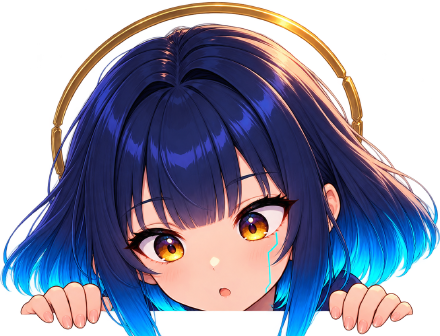
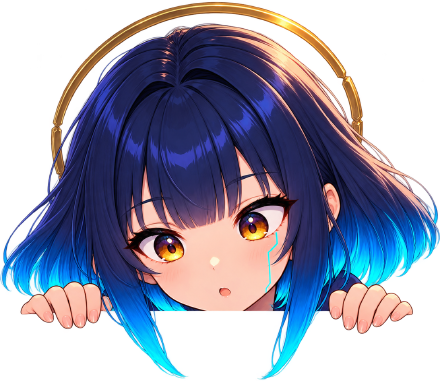
Les mèches ne sont plus coupées — il n'y avait pas de rebord à retirer
Signalé : « tu as coupé ses mèches, ça rend vraiment pas bien ». Vrai,
et l'erreur est plus bête que ça : je les ai jetées avec quelque chose
qui n'existait pas.

CE QUE JE CROYAIS VOIR. Sous la ligne des doigts, un bandeau sombre
que j'ai pris pour le rebord dessiné, à remplacer par la carte. J'ai
donc coupé à y = 922, juste sous les doigts.

CE QU'IL Y AVAIT VRAIMENT. Sondage des couleurs par plages de 120 px,
de y = 880 à 1035 : les colonnes du milieu (x 600-720) sont VIDES à
toutes les lignes. Il n'y a pas de rebord. Ce que je prenais pour un
bandeau était de la transparence affichée sur fond noir par la
visionneuse — j'ai lu une image au lieu de lire des pixels.

Ce qui reste sous les doigts, à x 360-500 et x 700-860, est du cyan
saturé : R ≈ 1, G ≈ 210, B ≈ 245. Ce sont ses deux mèches, et elles
descendent jusqu'à y = 1032. Je les avais tranchées en deux.

LA COUPE VA MAINTENANT JUSQU'À 1036, et les mèches retombent DEVANT
la carte — c'est précisément le geste du dessin. Nouvelle géométrie :
chevauchement (1036 − 860) / 959 = 18,35 % de la hauteur, contre 7,3
avant. Le débord AU-DESSUS ne bouge pas (0,707 × la largeur) : tout le
supplément tombe sous la ligne, donc la marge de centrage est
inchangée.

UNE MARGE QUI SE CALCULE AU LIEU D'ÊTRE CHOISIE. Les mèches
descendent maintenant assez bas pour venir mordre sur l'étiquette
« VÉRIFICATION REQUISE ». Avec le `clamp` fixe d'origine, le
dégagement variait avec la taille : mesuré, 12 px en 1280 et 4 px en
[…]

diff --git a/src/styles/deuxieme-facteur.css b/src/styles/deuxieme-facteur.css
@@ -79,25 +79,34 @@
    Le dessin la montre penchée par-dessus un rebord, les deux mains
    posées dessus. Le rebord, c'est la bordure haute de cette carte.
 
-   TROIS NOMBRES, RELEVÉS SUR L'IMAGE SOURCE (1254 × 1254) :
-     — la zone opaque va de y = 78 à y = 1032 ;
+   DEUX NOMBRES, RELEVÉS SUR L'IMAGE SOURCE (1254 × 1254) :
      — la ligne qu'elle agrippe est à y = 860 : c'est là que le
-       nombre de pixels opaques chute de 988 à 634 sur quatre lignes ;
-     — les doigts finissent à y = 918, mesuré par bandes (main
-       gauche x 150-360, main droite x 940-1160).
+       nombre de pixels opaques chute de 988 à 634 sur quatre lignes.
+       La chute EST le rebord ;
+     — la zone opaque finit à y = 1032.
 
-   On coupe donc à 922 — sous les doigts, au-dessus du rebord dessiné
-   que la carte remplace. Le chevauchement vaut (922 − 860) / (922 −
-   78) = 7,3 % de la hauteur : c'est exactement de combien elle doit
-   redescendre pour que ses mains retombent SUR la bordure et non
-   au-dessus.
+   PREMIÈRE COUPE, FAUSSE : à y = 922, juste sous les doigts. Je
+   croyais voir un rebord sombre en dessous et je l'ai jeté. Sondage
+   des couleurs sous la ligne des doigts : les colonnes du milieu
+   (x 600-720) sont VIDES, et ce qui reste à x 360-500 et x 700-860
+   est du cyan saturé — R ≈ 1, G ≈ 210, B ≈ 245. Ce ne sont pas des
+   ombres, ce sont SES MÈCHES, et elles descendent jusqu'à 1032. Le
+   « rebord sombre » n'existait pas : c'était de la transparence
+   affichée sur fond noir par la visionneuse. Je les avais tranchées
+   en deux.
+
+   On garde donc tout jusqu'à 1036. Les mèches retombent DEVANT la
+   carte, ce qui est précisément le geste du dessin. Le chevauchement
+   vaut (1036 − 860) / 959 = 18,35 % de la hauteur : de combien elle
+   redescend pour que ses mains retombent SUR la bordure.
 
    LA MARGE HAUTE N'EST PAS DÉCORATIVE. Elle est absolue, donc hors
    flux : sans marge, la grille centrerait la carte seule et la tête
    sortirait par le haut — `overflow: hidden` la couperait sans un
    mot. La marge appartient à la boîte de la carte, donc la grille
-   centre bien l'ENSEMBLE. Sa valeur : hauteur × (1 − 7,3 %), et la
-   hauteur vaut largeur ÷ 1,310, d'où le facteur 0,708. */
+   centre bien l'ENSEMBLE. Sa valeur : hauteur × (1 − 18,35 %), et la
+   hauteur vaut largeur ÷ 1,155, d'où le facteur 0,707 — inchangé par
+   la recoupe, puisque tout le supplément tombe SOUS la ligne. */
 .sas-carte {
   --mia: clamp(140px, 40vw, 210px);
 
@@ -107,7 +116,13 @@
   max-width: 480px;
   margin-top: calc(var(--mia) * 0.708);
   box-sizing: border-box;
-  padding: clamp(28px, 5vw, 46px) clamp(24px, 5vw, 44px) clamp(26px, 4vw, 38px);
+  /* LA MARGE HAUTE DÉRIVE DU CHEVAUCHEMENT, elle n'est pas choisie.
+     Les mèches descendent de 18,35 % de la hauteur sous la bordure,
+     soit 0,159 × la largeur (0,1835 ÷ 1,155). Avec un `clamp` fixe,
+     l'écart aux mèches variait avec la taille : mesuré, 12 px en
+     1280 et 4 px en 375 — au bord de toucher l'étiquette. En le
+     calculant, le dégagement vaut 16 px partout. */
+  padding: calc(var(--mia) * 0.159 + 16px) clamp(24px, 5vw, 44px) clamp(26px, 4vw, 38px);
   border: 1px solid rgba(139, 92, 246, 0.16);
   border-radius: 22px;
   background:
@@ -363,11 +378,12 @@
   position: absolute;
   left: 50%;
   bottom: 100%;
-  /* `bottom: 100%` pose son bas SUR la bordure ; les 7,3 % la font
-     redescendre juste ce qu'il faut pour que les doigts la chevauchent.
+  /* `bottom: 100%` pose son bas SUR la bordure ; les 18,35 % la font
+     redescendre juste ce qu'il faut pour que les mains se posent sur
+     l'arête et que les mèches pendent devant.
      Le pourcentage d'un `translate` se calcule sur la propre hauteur
      de l'élément, ce qui rend le calage indépendant de sa taille. */
-  translate: -50% 7.3%;
+  translate: -50% 18.35%;
   width: var(--mia);
   height: auto;
   z-index: 2;

diff --git a/src/pages/TwoFactor.tsx b/src/pages/TwoFactor.tsx
@@ -175,7 +175,7 @@ export default function TwoFactor() {
         <img
           src="/marque/mia-sas.png"
           width={440}
-          height={336}
+          height={381}
           alt=""
           aria-hidden="true"
           className="sas-mia"
